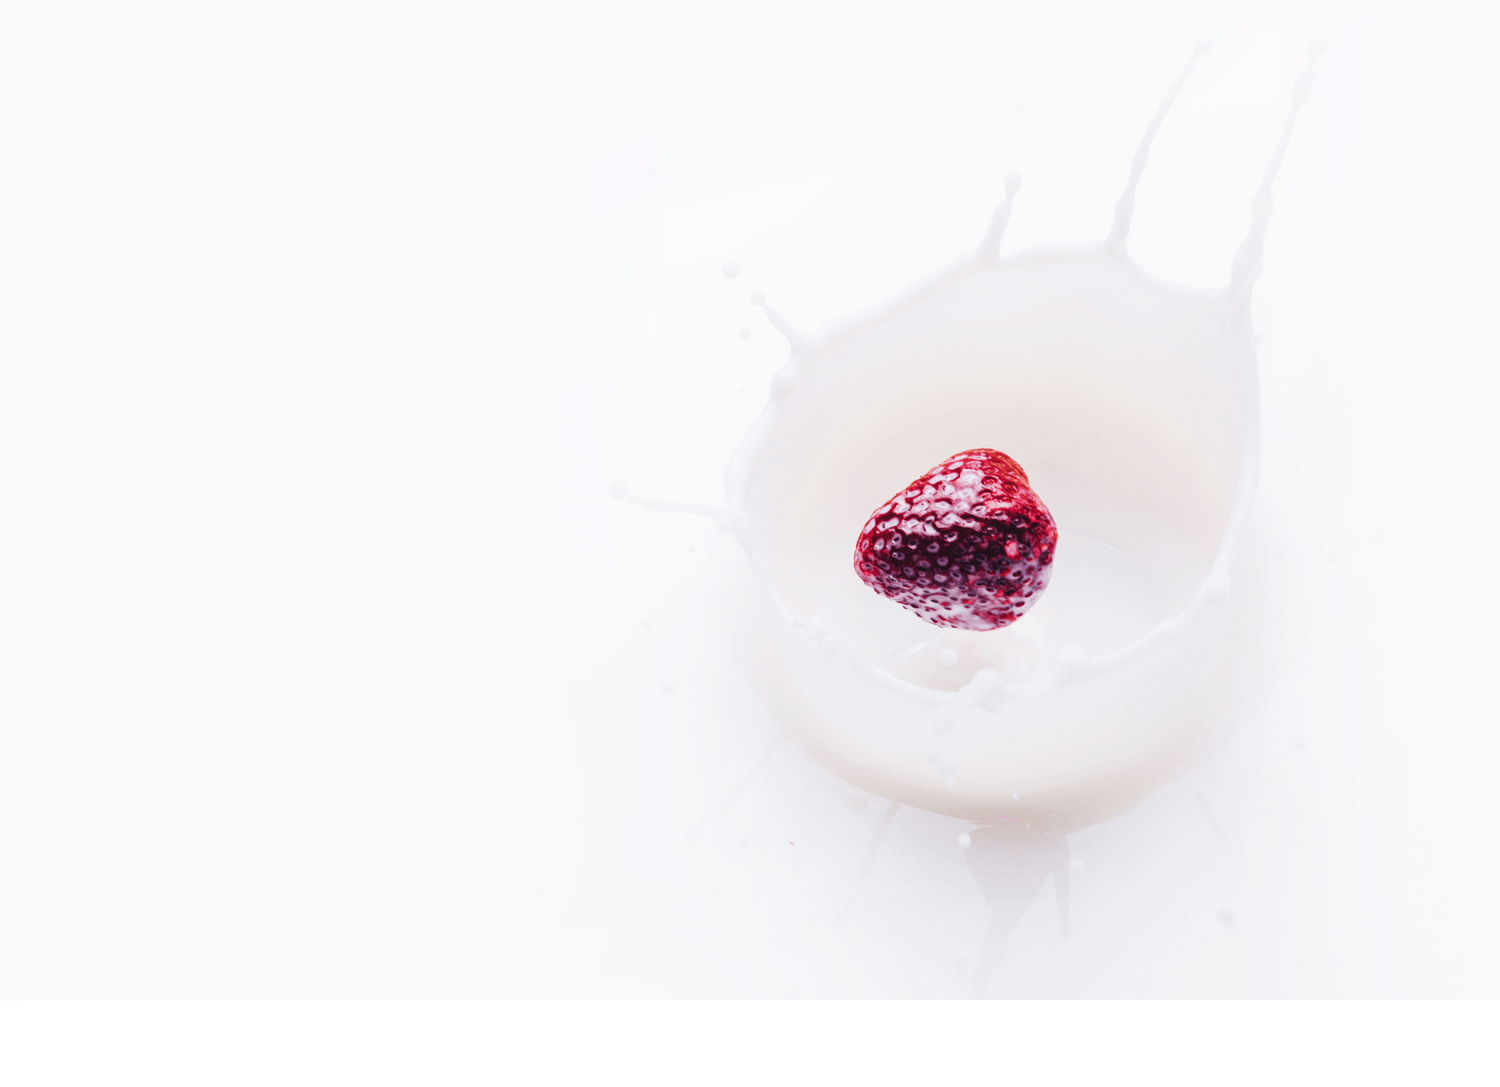
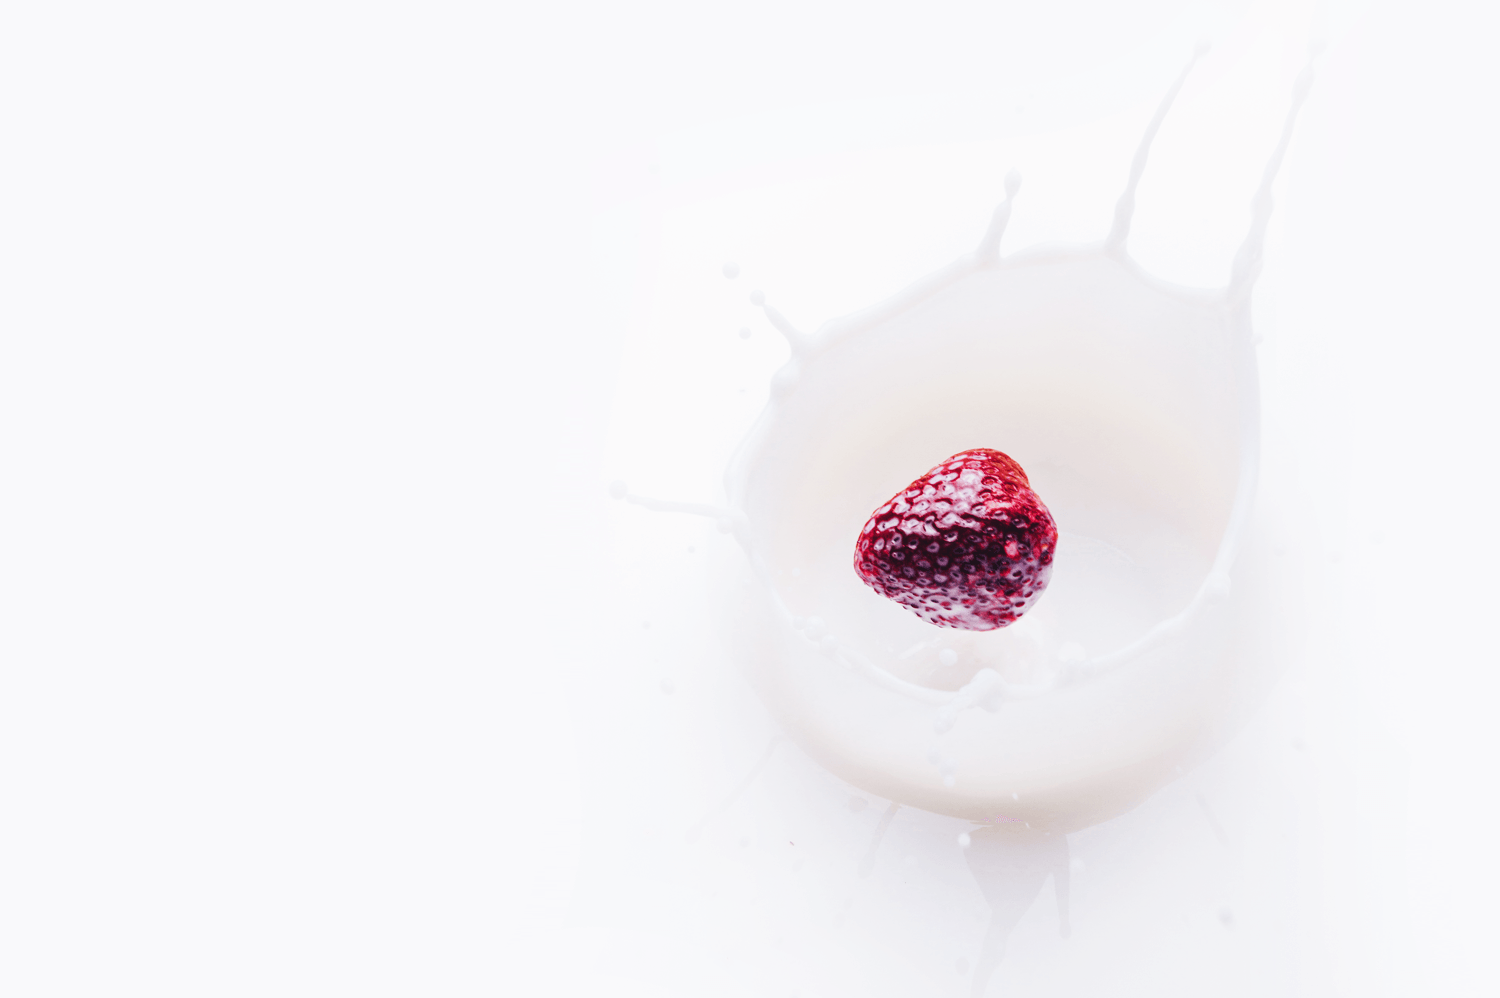
Small fix of header

Changed region(s): [[0.552, 0.4038, 0.7053, 0.6523], [0.552, 0.7144, 0.7667, 0.8697], [0.644, 0.9008, 0.6747, 0.9629]]

diff --git a/style.css b/style.css
@@ -72,7 +72,7 @@ html {
 /* sekcja 1 HOME */
 #section1 {
     background-image: url(images/img1.png);
-    background-size: auto;
+    background-size: cover;
     background-position: top;
     height: 100vh;
     width: 100%;
